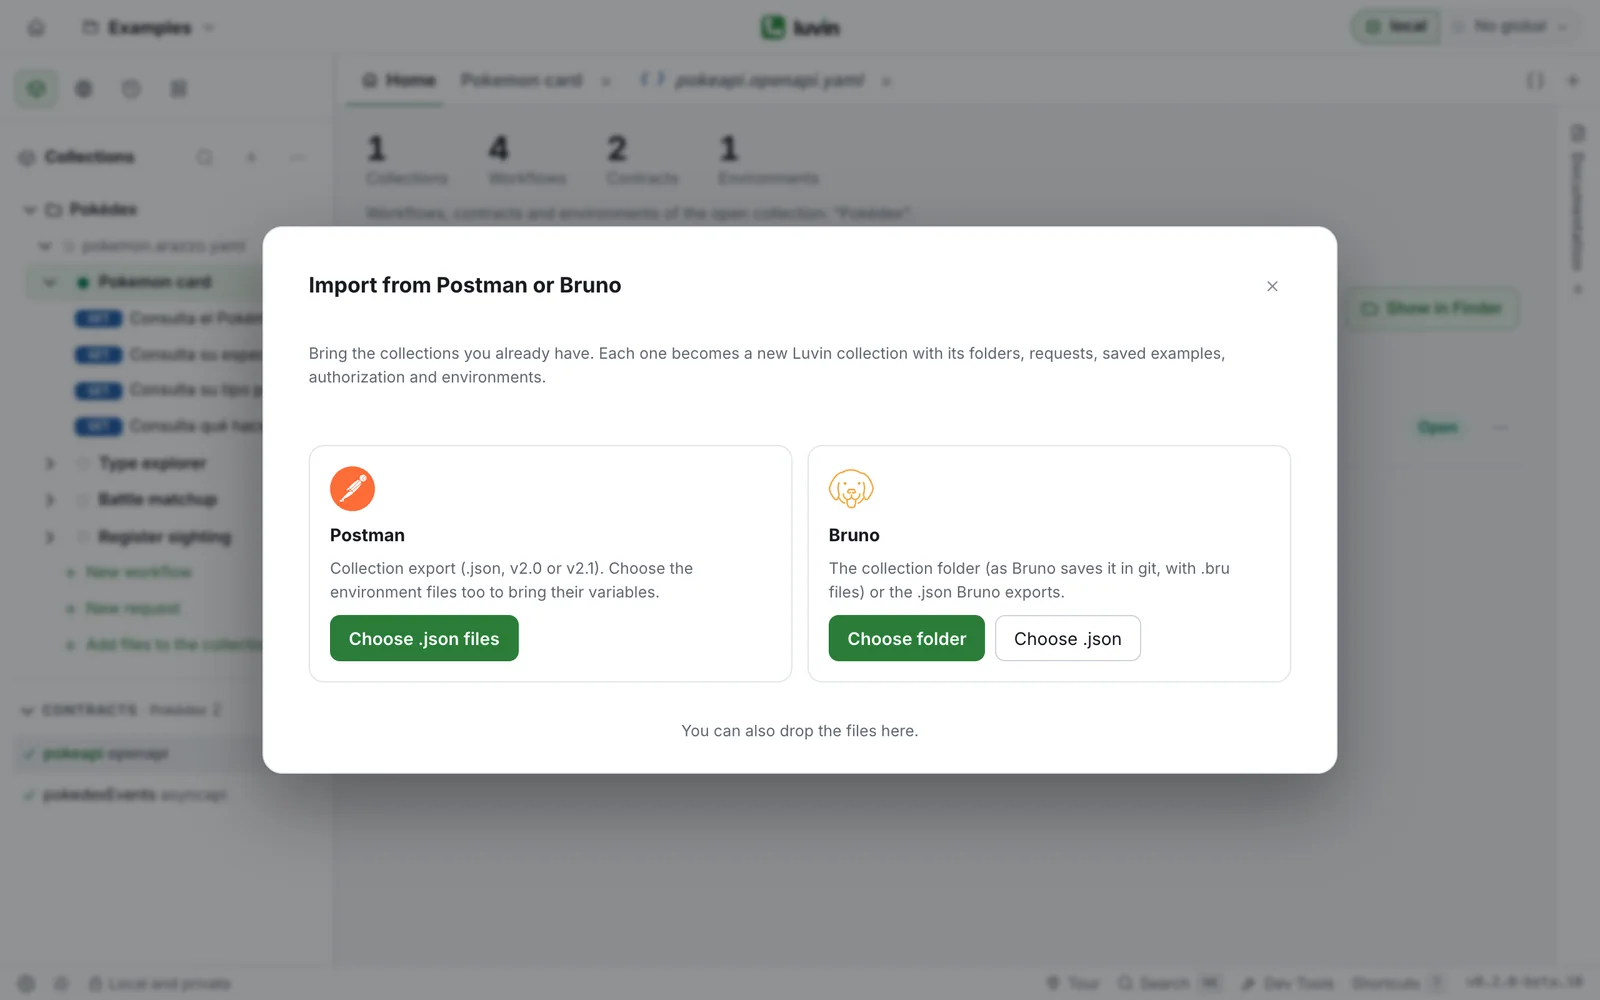
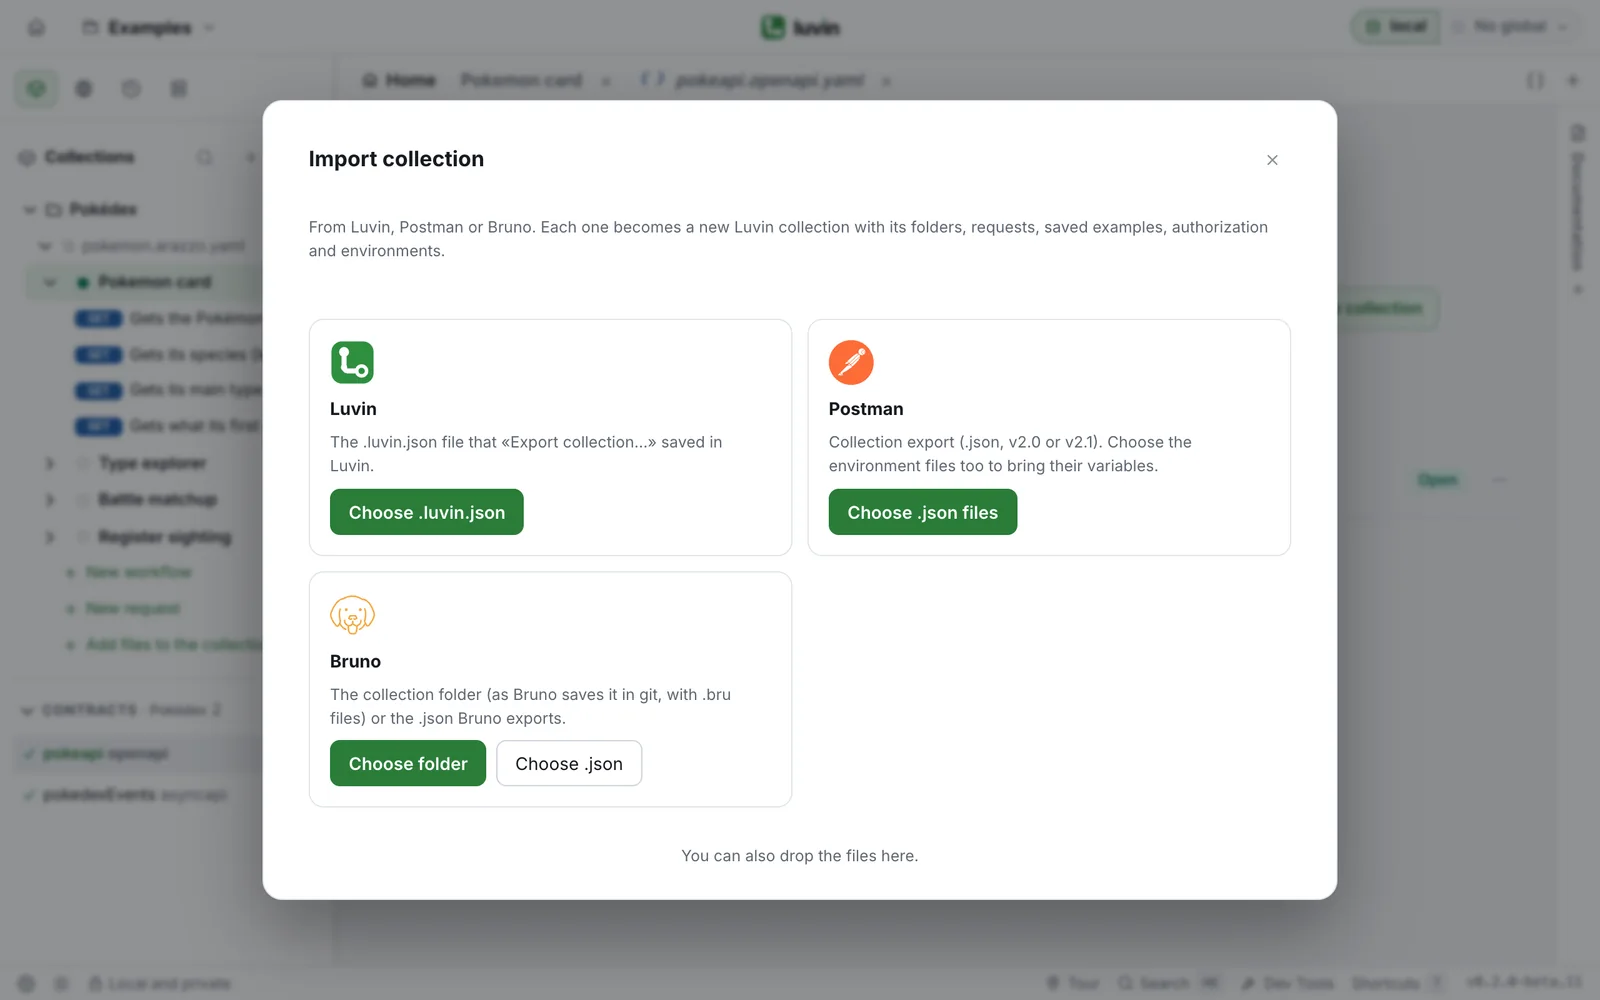
docs: export and import a collection (app 0009)
- new page in Workspaces › Files and teams, in English and Spanish: what the
  .luvin.json file holds, how to export, what goes and what doesn't, values
  that look like secrets, global variables, how to import, missing secrets,
  script trust, when nothing is imported, and export or git
- full-window screenshots of the export review, the import of a Luvin file
  and the missing-secrets notice; the Import collection dialog recaptured
- the import action is now «Import collection (Luvin, Postman or Bruno)» in
  every page that names it; the import page lists Luvin files
- capture: scenes for export and import, and the app home for scenes

diff --git a/src/content/docs/es/tutorials/from-postman.md b/src/content/docs/es/tutorials/from-postman.md
@@ -15,12 +15,12 @@ El workflow envía los requests de verdad. Apunta el ambiente a un servidor de p
 
 ## 1. Importa la colección
 
-1. Haz clic en **+** (**Crear o importar**) a la derecha de las pestañas abiertas, y luego en **Importar de Postman o Bruno**. Si no hay un workspace abierto, Luvin dice **Abre o crea un workspace para importar.** Abre uno primero.
+1. Haz clic en **+** (**Crear o importar**) a la derecha de las pestañas abiertas, y luego en **Importar colección (Luvin, Postman o Bruno)**. Si no hay un workspace abierto, Luvin dice **Abre o crea un workspace para importar.** Abre uno primero.
 2. Para Postman, haz clic en **Elegir archivos .json** y elige la colección exportada. Elige también sus archivos de ambiente, para traer las variables. Para Bruno, haz clic en **Elegir carpeta** y elige la carpeta de la colección.
 3. Lee el resumen: requests, carpetas, ejemplos y ambientes, y cuántos scripts trae. Los scripts de Postman y Bruno se traen completos y corren como en el original: mira [Scripts](/es/requests/scripts/).
 4. Cambia el nombre de la colección si quieres y haz clic en **Importar (N requests)**. Si ya existe una colección con ese nombre, el resumen te deja importar una copia o reemplazarla: mira [Cuando la colección ya existe](/es/get-started/import/#cuando-la-colección-ya-existe).
 
-![El diálogo Importar de Postman o Bruno con una tarjeta para Postman y otra para Bruno](/media/es/import-postman.webp)
+![El diálogo Importar colección con una tarjeta para Luvin, otra para Postman y otra para Bruno](/media/es/import-postman.webp)
 
 Luvin crea una colección nueva y la abre. Si tiene scripts, Luvin pregunta **¿Confías en esta colección?** Elige **Confiar** si sabes de dónde viene: mira [Confiar en una colección](/es/requests/scripts/#confiar-en-una-colección). Bruno no guarda el valor de sus secretos: si tu ambiente tiene alguno, llega vacío. Abre el ambiente en el panel **Ambientes** de la barra lateral y escríbelos. Mira [Trae tus propios archivos y requests](/es/get-started/import/).
 

diff --git a/src/content/docs/tutorials/from-postman.md b/src/content/docs/tutorials/from-postman.md
@@ -15,12 +15,12 @@ The workflow sends the requests for real. Point the environment at a test server
 
 ## 1. Import the collection
 
-1. Click **+** (**Create or import**) to the right of the open tabs, then **Import from Postman or Bruno**. If no workspace is open, Luvin says **Open or create a workspace to import.** Open one first.
+1. Click **+** (**Create or import**) to the right of the open tabs, then **Import collection (Luvin, Postman or Bruno)**. If no workspace is open, Luvin says **Open or create a workspace to import.** Open one first.
 2. For Postman, click **Choose .json files** and pick the exported collection. Pick its environment files too, to bring the variables. For Bruno, click **Choose folder** and pick the collection folder.
 3. Read the summary: requests, folders, examples and environments, and how many scripts come over. Postman and Bruno scripts come over whole and run as in the original: see [Scripts](/requests/scripts/).
 4. Change the collection name if you want, then click **Import (N requests)**. If a collection with that name already exists, the summary lets you import a copy or replace it: see [When the collection already exists](/get-started/import/#when-the-collection-already-exists).
 
-![The Import from Postman or Bruno dialog with a card for Postman and a card for Bruno](/media/en/import-postman.webp)
+![The Import collection dialog with a card for Luvin, one for Postman and one for Bruno](/media/en/import-postman.webp)
 
 Luvin creates a new collection and opens it. If it has scripts, Luvin asks **Do you trust this collection?** Choose **Trust** if you know where it comes from: see [Trust a collection](/requests/scripts/#trust-a-collection). Bruno does not save the value of its secrets: if your environment has some, they arrive empty. Open the environment in the **Environments** panel of the sidebar and type them. See [Import your existing work](/get-started/import/).
 
